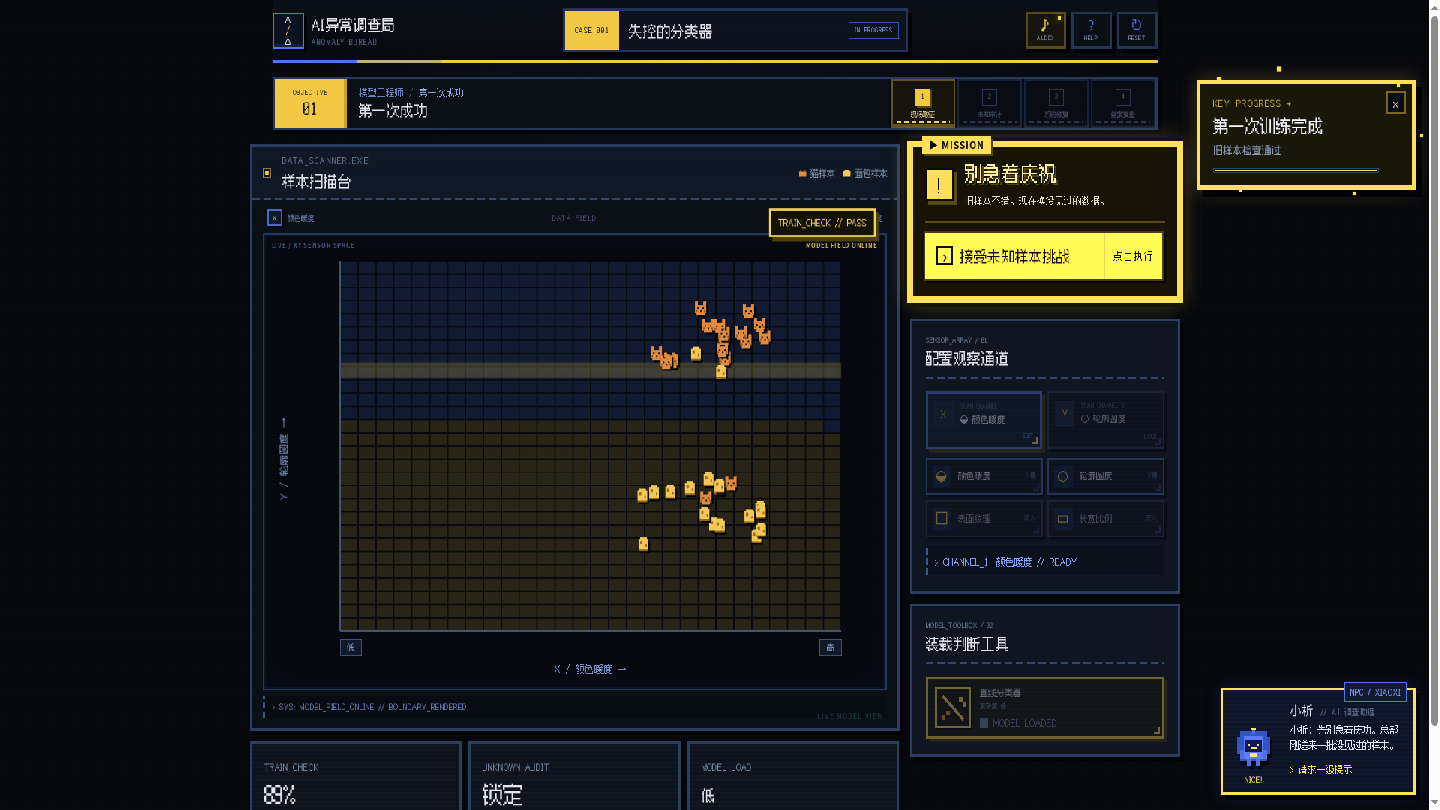
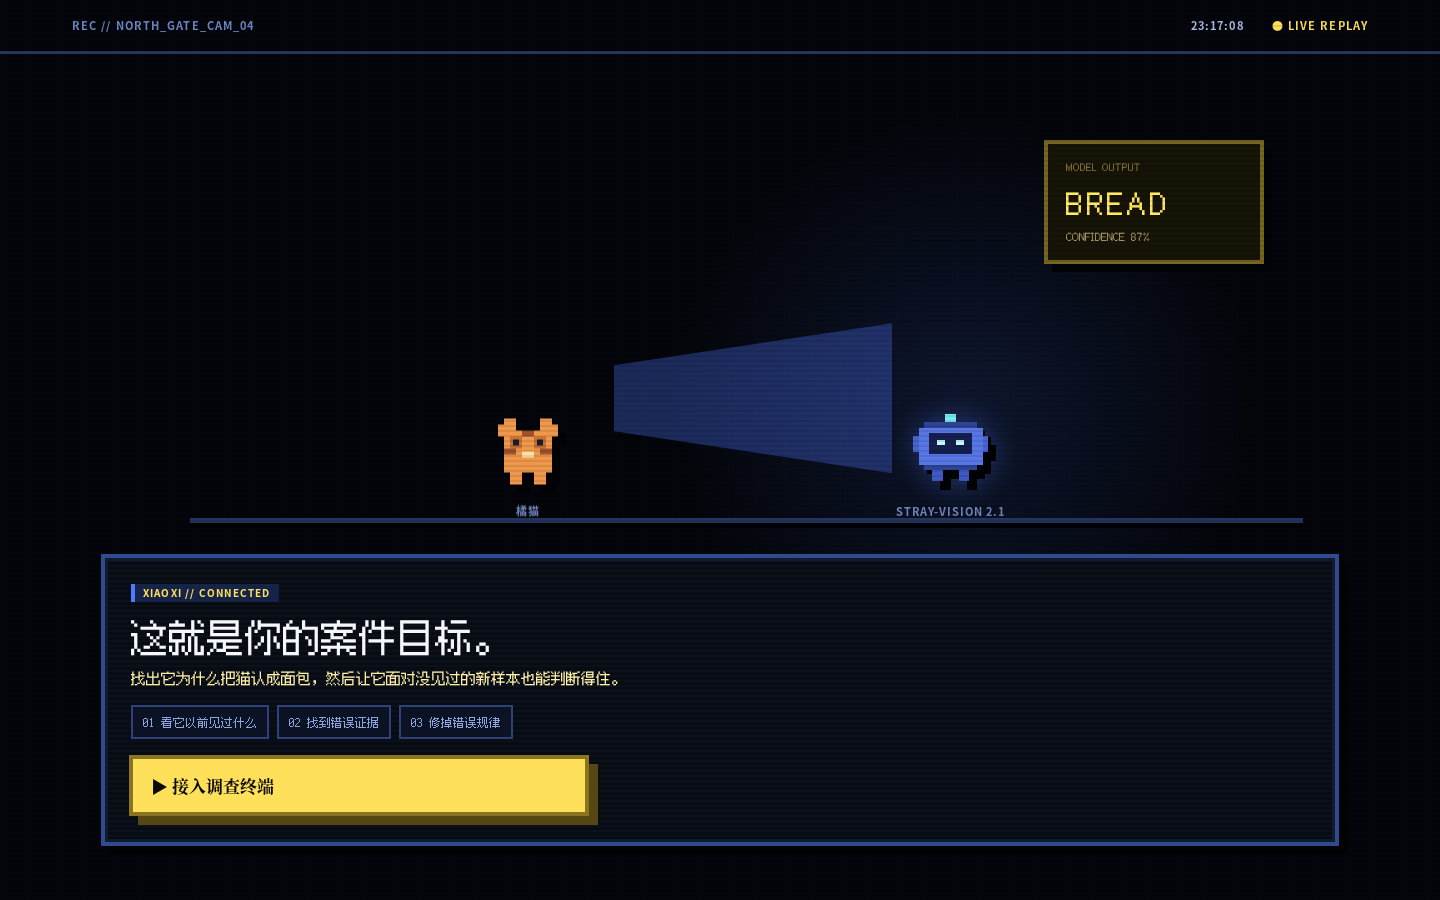
docs: showcase expanded first-case experience

diff --git a/docs/VALIDATION.md b/docs/VALIDATION.md
@@ -20,7 +20,7 @@ npm run test:e2e
 - TypeScript strict typecheck：通过。
 - Vitest：4 个测试文件、20 个测试全部通过。
 - Vite production build：通过。
-- Playwright：Chromium 完整玩家 happy path 通过。
+- Playwright：2 条 Chromium E2E 通过（零基础玩家完整案件 + debug 工程模式）。
 - GitHub Actions CI：通过；GitHub runner 已真实执行 lint、typecheck、unit tests、build、Chromium E2E。
 
 ## 固定 seed 教学指标
@@ -53,7 +53,7 @@ Vitest 当前覆盖：
 - 决策边界网格确定性。
 - 初始训练捷径在未知样本上真实失败。
 - k=1 过拟合陷阱真实存在。
-- 错误样本查看守卫。
+- 两个不同错误样本的证据守卫。
 - 三级提示上限。
 - 普通模式拒绝 debug 跳关。
 - 六类开发者测试人格均在有限步骤内完成关卡，并经历过拟合与多次未知审计。
@@ -61,35 +61,39 @@ Vitest 当前覆盖：
 
 ## Playwright 浏览器 E2E
 
-`e2e/happy-path.spec.ts` 在真实 Chromium 中执行正常玩家完整流程：
+`e2e/happy-path.spec.ts` 当前包含两条真实 Chromium 路线。
 
-1. 打开标题页并进入调查现场。
-2. 完成 onboarding。
-3. 操作特征槽位并选择线性模型。
-4. 第一次训练成功。
-5. 进入此前未参与训练的未知样本审计。
-6. 确认出现真实误判。
-7. 点击至少一个黄色 `!`，进入 `EVIDENCE.LOG`。
-8. 进入重新设计阶段。
-9. 故意装载 KNN k=1，训练并审计，触发真实过拟合。
-10. 确认返回修复阶段时 PHASE 03 不重复播放。
-11. 切换到稳健特征 + 直线模型并重新训练 / 审计。
-12. 进入最终审计成功状态。
-13. 回答迁移问题。
-14. 进入 `CASE CLOSED`。
+零基础玩家完整案件：
+
+1. 标题页点击“查看事故录像”。
+2. Cold Open 中亲手确认“这明明是一只猫”，看到 `CAT ≠ BREAD`，再接入调查终端。
+3. 在旧样本上完成一次肉眼分布判断。
+4. 分别读取当前“颜色暖度 / 轮廓圆度”两个观察通道；此时完整特征工具箱仍隐藏。
+5. 亲手点击唯一开放的直线分类器并训练。
+6. 第一次成功后先留下“是否真的修好”的预测。
+7. 放入此前未参与训练的未知样本并看到真实失败。
+8. 调查两个不同黄色 `!`，读取 `EVIDENCE.LOG`，完成一次证据推理。
+9. 进入修复，故意装载 KNN k=1，训练并审计，触发真实训练 100% / 未知表现下降。
+10. 玩家先解释反常现象，之后才显示“过拟合 / Overfitting”。
+11. 返回修复时确认 PHASE 03 不重复播放，并读取新解锁的“表面纹理 / 长宽比例”两个备用观察通道。
+12. 重新开放完整特征 / 模型配置，切换到稳健特征 + 直线模型并重新训练 / 审计。
+13. 对照 `CASE_NOTES.LOG` 完成最终“为什么这次更可信”的判断。
+14. 回答迁移问题并进入 `CASE CLOSED`。
+
+工程模式路线会直接打开 `?debug=1`，验证 DebugPanel、阶段跳转和快速主操作仍可用，不受普通玩家 micro-beat 门槛影响。
 
 E2E 使用 Playwright 的真实可操作性检查；如果 overlay、NPC、tooltip 或 SVG 层拦截点击，测试会直接失败。
 
 本轮 Playwright 实际发现并修复了两个 CDP 脚本此前无法发现的问题：
 
-- SVG 决策背景可能抢走误判样本点击；现已让背景层不接收 pointer event，并给误判标记增加 36×36 点击热区。
+- SVG 决策背景可能抢走误判样本点击；现已让背景层不接收 pointer event，并给误判标记增加 26×26 点击热区。较大的 36×36 热区在密集区域会互相抢点击，因此真实 E2E 后进一步缩小。
 - 1440×900 下折叠小析仍可能轻微覆盖模型工具盒；现已进一步贴右侧安全区，E2E 明确断言二者不重叠。
 
 ## Headless Chromium 人工视觉路线
 
 服务器无 sudo，因此没有修改系统级 GUI 环境。用于视觉 QA 的 Chrome、共享库、CJK 测试字体、CDP 脚本和阶段截图都放在 Git 忽略的 `.tooling/` 中。
 
-1920×1080 的真实 Chromium 路线已经完整跑到结案，并用于检查：
+新版第一关还通过 `QA_SHOTS=1 npm run test:e2e` 在 1440×900 抓取关键阶段截图，并与既有 1920×1080 路线共同检查：
 
 - 小析悬浮避让。
 - sticky 新手任务卡。
@@ -98,6 +102,11 @@ E2E 使用 Playwright 的真实可操作性检查；如果 overlay、NPC、toolt
 - 阶段过场仅播放一次。
 - 过拟合 / 修复 / 结案剧情台词状态。
 - 像素 UI 的主要布局与滚动行为。
+- Cold Open 的单一 CTA 与目标建立。
+- progressive disclosure：初始阶段不提前显示完整特征 / 模型驾驶舱。
+- 两条证据阅读时右侧推理题保持 sticky 可见。
+- 过拟合后备用传感器先读取、后开放完整修复工具。
+- 非交互 mission cue 不再伪装成实心按钮。
 
 Windows 真机截图仍作为最终美术判断基准；headless Chromium 主要负责流程、遮挡、点击命中和布局回归。
 
@@ -105,9 +114,9 @@ Windows 真机截图仍作为最终美术判断基准；headless Chromium 主要
 
 已将真实 Chromium 素材放入 `docs/assets/`：
 
-- `hero.png`：主调查界面。
-- `misclassification.png`：未知审计与误判定位。
-- `demo.gif`：标题 → 第一次成功 → 误判 → 过拟合 → 修复 → 结案的短演示。
+- `hero.png`：Cold Open 中小析正式给出案件目标。
+- `misclassification.png`：两条未知误判证据与现场推理。
+- `demo.gif`：标题 → 事故录像 → 案件目标 → 旧样本观察 → 第一次成功 → 两条证据 → 过拟合 → 备用传感器 → 最终修复的短演示。
 
 素材不是设计稿或伪造界面，均来自当前 V1 的真实运行状态。
 
@@ -157,7 +166,7 @@ Windows 真机截图仍作为最终美术判断基准；headless Chromium 主要
 
 现状：
 
-- UI 经多轮迭代后存在 9 个 CSS 文件，部分核心 selector 在多个层级覆盖。
+- UI 经多轮迭代后存在多个分层 CSS 文件；本轮新增 `narrative-expansion.css` 只承载 Cold Open、调查 prompt 和 progressive disclosure，不回头大规模合并历史视觉层。
 - `App.tsx` 仍承担较多页面编排。
 - 粗略静态扫描能找到若干可能的历史 class，但包含动态 class、媒体查询和层叠覆盖，无法仅凭文本搜索安全删除。
 
@@ -167,7 +176,7 @@ Windows 真机截图仍作为最终美术判断基准；headless Chromium 主要
 
 ## 尚未覆盖的风险
 
-- 尚未完成真实零基础新生的多人可用性测试。
+- 已获得至少一轮真实零基础新生定性反馈，并据此重做第一分钟与交互可发现性；尚未完成 5～8 人规模的系统可用性测试。
 - Playwright 当前只覆盖 Chromium + 桌面 viewport，不做浏览器 matrix。
 - 没有建立大规模视觉 snapshot 回归；视觉仍以真实截图人工检查为主。
 - GitHub Pages 已上线；当前没有针对 CDN 缓存传播延迟的专项测试。

diff --git a/docs/PRODUCT_DESIGN.md b/docs/PRODUCT_DESIGN.md
@@ -1,7 +1,7 @@
 # 《AI异常调查局：失控的分类器》产品设计
 
 ## 一句话定位
-一款让零基础大学新生通过“调查橘猫被识别成面包”的事故，在 15～30 分钟内亲手经历数据、特征、模型、测试集与过拟合的浏览器机器学习入门游戏。
+一款让零基础大学新生通过“调查橘猫被识别成面包”的事故，在约 20～30 分钟的首次认真游玩中亲手经历数据、特征、模型、测试集与过拟合的浏览器机器学习入门游戏。
 
 ## 玩家画像
 - 大一新生；可能完全没学过机器学习、线性代数、概率论和 Python。
@@ -17,25 +17,33 @@
 5. 错误样本比单个准确率数字更能帮助定位问题。
 
 ## 第一关体验流程
-### 阶段 1：第一次成功（约 3～5 分钟）
-- 身份：数据调查员 → 特征工程师 → 模型工程师。
-- 初始只开放两组直观特征与线性分类器。
-- 玩家观察散点图，选择“轮廓圆度 + 颜色暖度”，点击训练。
-- 数据线性可分，训练表现高，立即得到“系统在现有样本上恢复正常”的正反馈。
-- 此时不讲训练集、测试集、泛化、过拟合等术语。
+### Cold Open：事故发生（约 2～3 分钟）
+- 先进入校园夜间监控录像，而不是直接掉进 ML 工作台。
+- 玩家亲眼看到橘猫被系统输出为 `BREAD / 87%`，并完成第一个唯一显眼操作：“这明明是一只猫”。
+- 系统显示 `CAT ≠ BREAD / CONFLICT DETECTED`，小析才介入说明案件目标：找出机器人学错了什么，并让它面对没见过的新样本也能判断稳定。
+- 这段同时教会玩家游戏的点击视觉语言，不要求任何 ML 背景。
 
-### 阶段 2：意外失败（约 5～8 分钟）
+### 阶段 1：第一次成功（约 5～7 分钟）
+- 身份：现场调查员 → 传感器调查员 → 模型工程师。
+- 工作台采用 progressive disclosure：还没用到的模型、特征工具直接隐藏，而不是全部同时变灰摆在屏幕上。
+- 玩家先肉眼判断旧样本是否形成两团，再分别读取“颜色暖度 / 轮廓圆度”两个当前观察通道，理解机器人并没有像人一样直接看懂图片。
+- 玩家亲手装载唯一开放的直线分类器并训练；训练表现高后，必须先留下“它是否真的修好”的预测，之后才开放未知样本验证。
+- 此时仍不提前解释训练集、测试集、泛化、过拟合等术语。
+
+### 阶段 2：意外失败（约 6～8 分钟）
 - 身份切换为系统审计员。
 - 首次揭示一批此前不可见的未知样本；其中包含不同光照下橘猫和长条面包。
 - 玩家看到训练表现仍高，但未知数据错误明显增多。
-- 玩家必须点开至少一个误判样本，再继续。
-- 小析随后命名现象：此前看到的是“训练集”，新样本是“测试集”；测试失败说明模型没有很好“泛化”。
-- 玩家可以修改特征或换模型再次尝试。
+- 玩家必须调查两个不同误判样本，再回答“它们共同暴露了什么”，形成最小证据链，而不是点一下就过关。
+- 小析随后命名此前看到的是“训练集”、新样本是“测试集”；玩家先通过证据意识到当前观察信息存在盲区。
+- 只有完成证据推理后才进入修复。
 
-### 阶段 3：过拟合陷阱（约 5～10 分钟）
+### 阶段 3：过拟合陷阱与修复（约 8～12 分钟）
 - 解锁决策树与 KNN。
 - KNN 的 `k=1` 作为“几乎记住训练数据”的复杂方案：训练表现可接近 100%，但噪声与异常点导致隐藏测试表现下降、边界破碎。
-- 玩家需要比较训练/测试表现与误判样本，而不是只追求训练分数。
+- 第一次修复先要求玩家故意做一次 `k=1` 极端实验；看到训练 100% / 未知样本下降后，玩家必须自己选出最合理解释，之后才正式揭示“过拟合”。
+- 每次未知审计会写入 `CASE_NOTES.LOG`，让玩家比较旧样本表现、新样本表现、特征与模型，而不是凭记忆乱试。
+- 过拟合后技术组解锁“表面纹理 / 长宽比例”两个备用观察通道；玩家先读完两个模块，再重新开放特征/模型配置。
 - 至少两条合理通关路径：
   1. 使用更稳健特征 + 线性分类器；
   2. 使用更稳健特征 + 简单决策树或较平滑的 KNN（k=5）。
@@ -47,7 +55,7 @@
 关键守卫：
 - 未选择至少 2 个特征不能训练。
 - 未训练不能进入测试。
-- 阶段 2 首次测试后，必须查看至少 1 个错误样本才能进入下一步。
+- 阶段 2 首次测试后，必须查看至少 2 个不同错误样本才能进入下一步。
 - 最终成功要求隐藏测试准确率 ≥ 0.84，且关键橘猫子集错误 ≤ 1。
 - “训练集 100%”本身永远不是成功条件。
 

diff --git a/docs/TECHNICAL_DESIGN.md b/docs/TECHNICAL_DESIGN.md
@@ -28,6 +28,10 @@ src/
     logging.ts               # 匿名行为日志
     routes.ts                # debug 自动路线
   components/
+    EntryExperience.tsx       # 标题页 + 交互式事故 Cold Open + boot
+    InvestigationPrompt.tsx  # 同一 stage 内的观察 / 证据 / 反思判断
+    SensorIntro.tsx          # 当前与备用观察通道的逐步读取
+    CaseAttempts.tsx         # CASE_NOTES 实验记录
     ScatterPlot.tsx
     TaskBanner.tsx
     FeaturePicker.tsx
@@ -163,7 +167,9 @@ type Stage =
   | 'complete'
 ```
 
-主要状态：seed、stage、selectedFeatures、selectedModel、knnK、fitResult、trainMetrics、testMetrics、viewedMistakes、attempts、failureStreak、hintLevel、history、startedAt、completedAt。
+核心 reducer 状态仍是：seed、stage、selectedFeatures、selectedModel、knnK、fitResult、trainMetrics、testMetrics、viewedMistakes、attempts、failureStreak、hintLevel、history、startedAt、completedAt。
+
+Cold Open、传感器读取、预测下注、证据推理、过拟合反思、最终反思和 `CASE_NOTES` 属于单关卡 UI 编排状态，不改变 ML 模型或主状态机语义。这些 micro-beat 用来延长真实调查过程，而不是增加第二套业务状态机。
 
 Reducer 对非法动作返回原状态并记录 debug diagnostic；关键动作包括 `START`、`SELECT_FEATURES`、`SELECT_MODEL`、`TRAIN`、`RUN_AUDIT`、`VIEW_MISTAKE`、`REQUEST_HINT`、`ADVANCE`、`ANSWER_TRANSFER`、`RESET_STAGE`、`JUMP_STAGE`。
 
@@ -227,7 +233,7 @@ type BehaviorEvent = {
 - 标准路线能通关。
 - 未选特征/未训练无法越过守卫。
 - 隐藏测试前不暴露测试指标。
-- 首次测试失败后需查看错误样本。
+- 首次测试失败后需查看两个不同错误样本。
 - 连续失败触发 1→2→3 级提示。
 - reset/jump 仅 debug 模式生效。
 
@@ -235,17 +241,21 @@ type BehaviorEvent = {
 六种人格全部执行到预期终点或明确诊断，不出现无限循环与无可用操作状态。
 
 ### 浏览器验证
-- 桌面 1440×1000：首屏任务明确，图为视觉中心。
-- 手机约 390×844：可完成选择、训练、审计与通关。
-- `?debug=1` 面板可操作且普通模式不出现。
+- Playwright Chromium 正常玩家路线覆盖 Cold Open、观察判断、传感器读取、训练预测、未知审计、两条错误证据、过拟合实验、备用传感器修复、迁移问题与结案。
+- E2E 会使用真实 Playwright actionability 检查，防止 SVG、NPC、tooltip、overlay 抢走点击。
+- 另有 debug-mode E2E，确保普通玩家的新手门槛不会破坏 `?debug=1` 的快速工程测试能力。
+- 本地 `.tooling/` headless Chrome 可在 1440×900 / 1920×1080 做阶段截图 QA；这些运行库与截图不提交 Git。
 - 浏览器 console/page errors 为零。
 
 ## CI
 Node.js 24（与本地正式工具链一致）：
 1. `npm ci`
-2. `npm run check`
-3. `npm test -- --run`
-4. `npm run build`
+2. `npm run lint`
+3. `npm run typecheck`
+4. `npm test -- --run`
+5. `npm run build`
+6. 安装 Chromium
+7. `npm run test:e2e`
 
 监听 push main 与针对 main 的 pull request。
 

diff --git a/README.md b/README.md
@@ -1,6 +1,6 @@
 # AI异常调查局：失控的分类器
 
-> 一款给机器学习零基础新生玩的浏览器调查游戏：先把橘猫认成面包的机器人“修好”，再亲手发现为什么 **训练集 100% 也可能是坏消息**。
+> 一款约 20–30 分钟、给机器学习零基础新生玩的浏览器调查游戏：从“橘猫被识别成面包”的事故录像开始，亲手查证为什么 **训练集 100% 也可能是坏消息**。
 
 <p align="center">
   <a href="https://siddhartha-yz.github.io/ai-anomaly-bureau/"><strong>▶ 在线试玩 / Live Demo</strong></a>
@@ -16,20 +16,24 @@
 
 你接手一台校园流浪动物识别机器人。它非常自信——也非常离谱：**一只橘猫被识别成了面包。**
 
-游戏不会先讲公式，而是让你直接经历这条认知反转：
+游戏不会先讲公式。你先在事故录像里亲手确认“这明明是一只猫”，再进入终端调查：
 
 ```text
-第一次训练成功
+亲眼看到 CAT ≠ BREAD
+      ↓
+翻旧样本 + 读取机器人当前的两项“视觉”
+      ↓
+第一次训练成功，并先下注：它真的修好了吗？
       ↓
 没见过的新数据翻车
       ↓
-点击并调查真实误判
+调查两条真实误判，把证据串起来
       ↓
-训练集 100%，未知数据仍失败
+故意让 k=1 把训练集做到 100%
       ↓
-发现“过拟合”
+自己解释反常现象 → 揭示“过拟合”
       ↓
-重新选择特征 / 模型
+解锁备用传感器，比较实验记录并重新设计
       ↓
 让模型真正泛化到新样本
 ```
@@ -41,7 +45,7 @@
 - **模型真的在浏览器里训练。** 线性分类器、深度 2 决策树、KNN k=1 / k=5 都由 TypeScript 实时计算。
 - **测试集真的隐藏。** 普通玩家在审计前拿不到测试标签；不是先把答案塞进 UI 再演剧情。
 - **过拟合是真的。** 固定 seed 下，k=1 会真实取得训练 100%，同时在未知数据上退步。
-- **错误样本可以调查。** 不是只给一个 Accuracy；玩家必须至少打开一个误判证据。
+- **错误样本可以调查。** 不是只给一个 Accuracy；玩家必须调查两条不同误判并完成一次证据推理。
 - **先体验，再命名概念。** 玩家先遇到“旧题会、新题崩”，之后游戏才告诉你这叫泛化与过拟合。
 
 ![未知样本审计与误判定位](docs/assets/misclassification.png)
@@ -113,7 +117,7 @@ npm run build
 npm run test:e2e
 ```
 
-Playwright E2E 会在真实 Chromium 中完成：进入游戏 → 选择特征 / 模型 → 训练 → 未知审计失败 → 查看误判 → 故意触发 k=1 过拟合 → 修复 → 迁移问题 → `CASE CLOSED`。
+Playwright E2E 会在真实 Chromium 中完成新版整案：Cold Open → 观察判断 → 读取传感器 → 首次训练与预测 → 未知审计失败 → 两条误判证据 → k=1 过拟合实验 → 备用传感器修复 → 最终判断 → `CASE CLOSED`；另有一条 debug E2E 防止新手门槛破坏工程测试模式。
 
 详细结果见 [`docs/VALIDATION.md`](docs/VALIDATION.md)。
 
